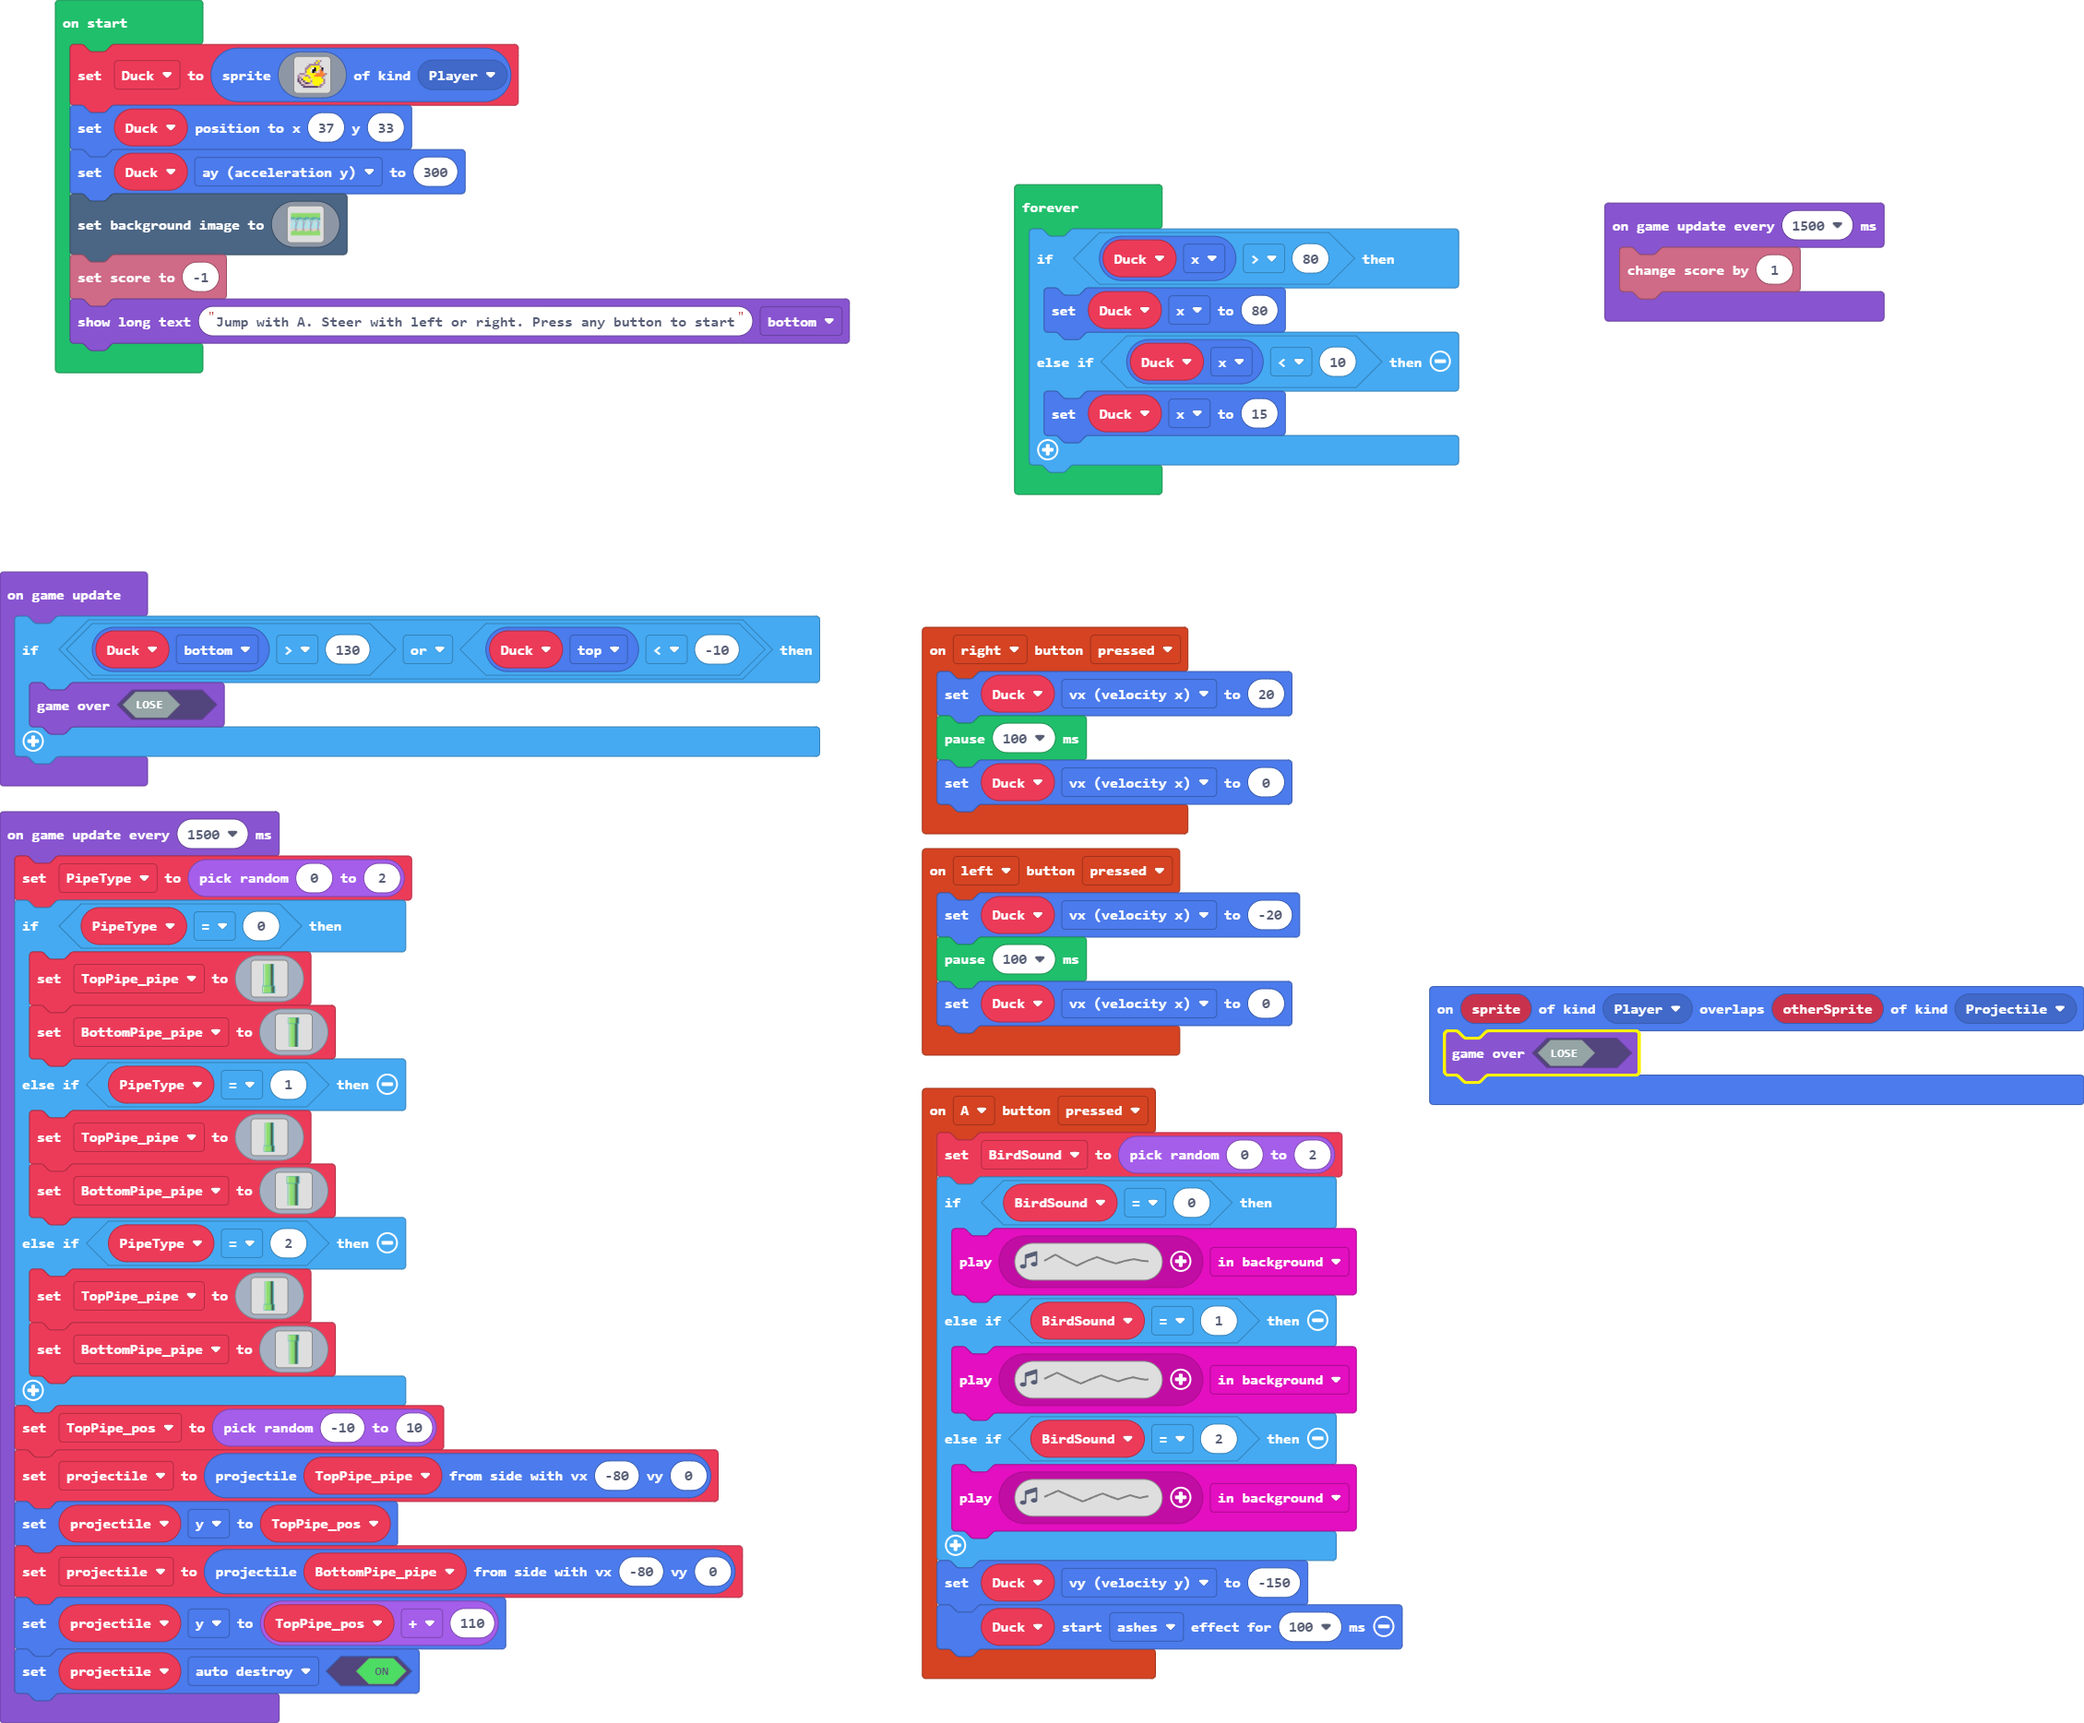
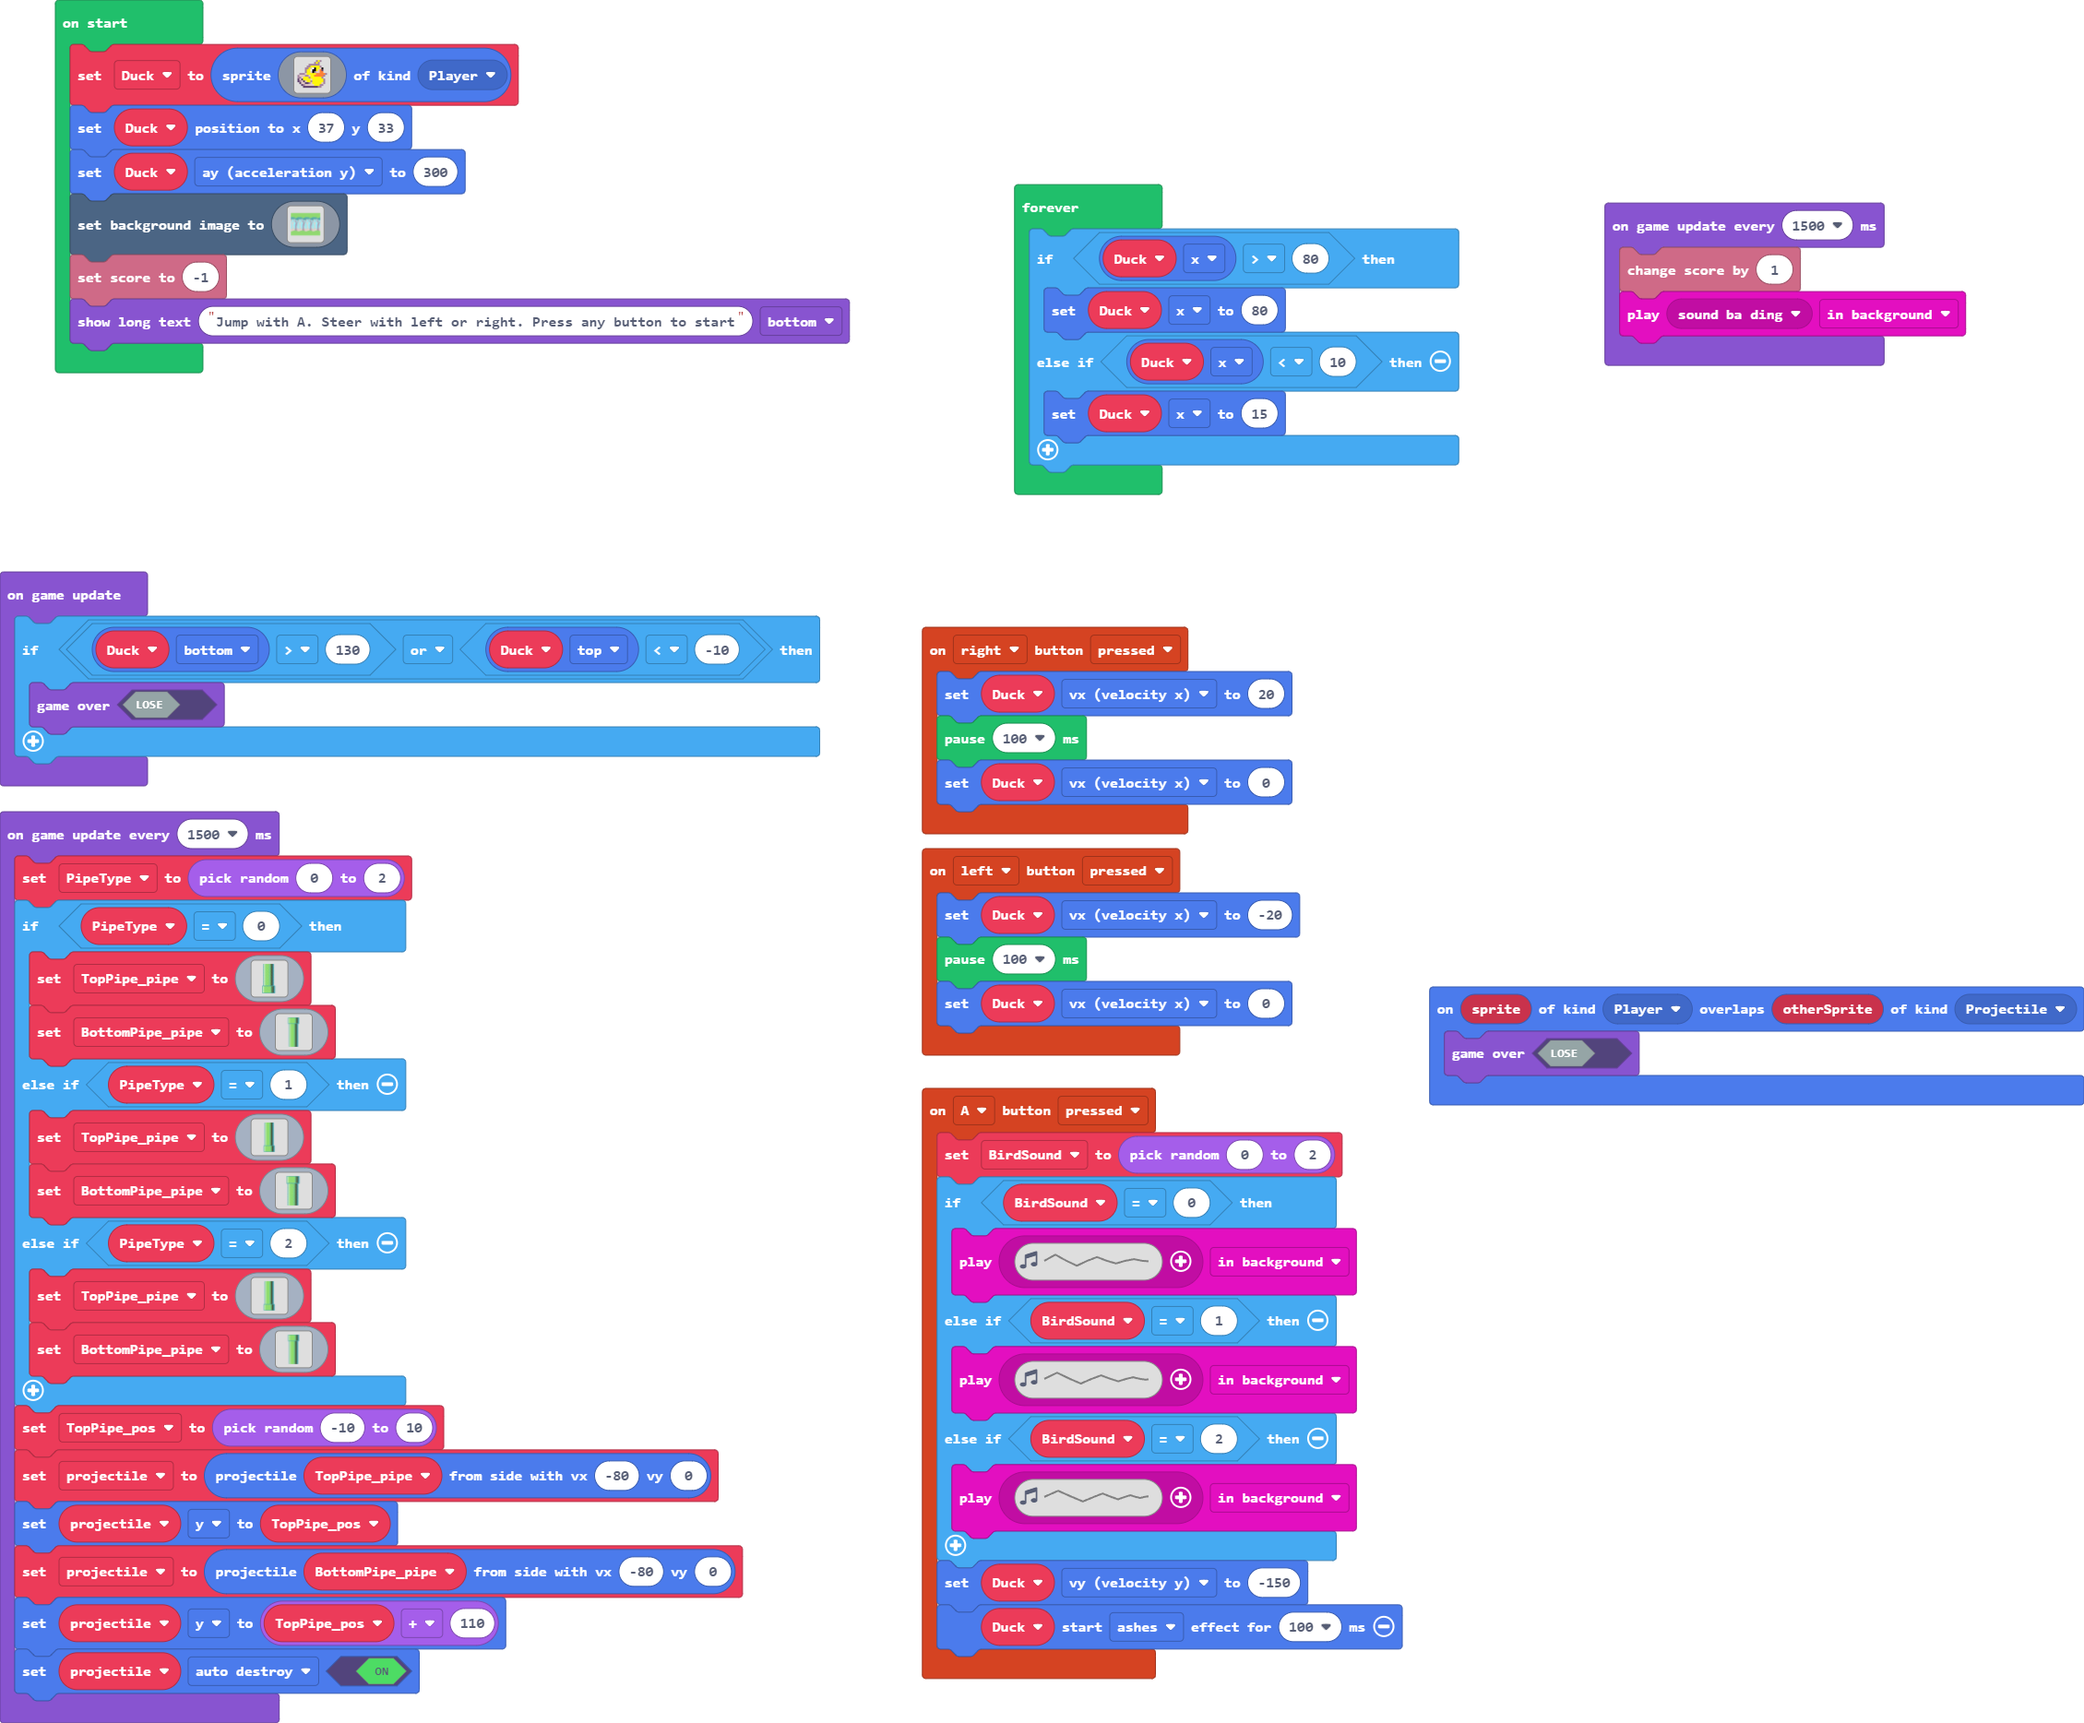
Added pling when points are given.

Changed region(s): [[0.7437, 0.1552, 0.9606, 0.2173]]

diff --git a/main.ts b/main.ts
@@ -184,6 +184,7 @@ game.onUpdate(function () {
 })
 game.onUpdateInterval(1500, function () {
     info.changeScoreBy(1)
+    music.play(music.melodyPlayable(music.baDing), music.PlaybackMode.InBackground)
 })
 game.onUpdateInterval(1500, function () {
     PipeType = randint(0, 2)
